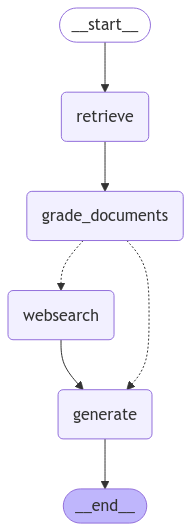
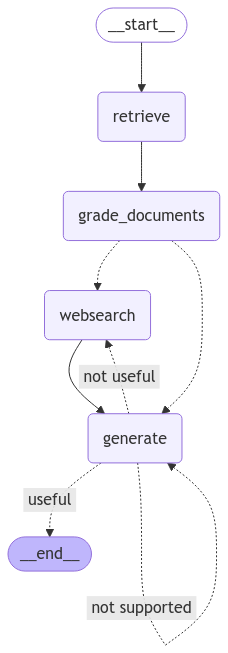
Added checks for hallucination and relevance

diff --git a/rag/graph/chains/tests/test_chains.py b/rag/graph/chains/tests/test_chains.py
@@ -2,7 +2,9 @@ from pprint import pprint
 
 from dotenv import load_dotenv
 
+from graph.chains.answer_grader import GradeAnswer, answer_grader
 from graph.chains.generation import generation_chain
+from graph.chains.hallucination_grader import GradeHallucination, hallucination_grader
 from graph.chains.retrieval_grader import GradeDocument, retrieval_grader
 from ingestion import retriever
 
@@ -34,3 +36,50 @@ def test_generation_chain() -> None:
     docs = retriever.invoke(question)
     generation = generation_chain.invoke({"question": question, "context": docs})
     pprint(generation)
+
+
+def test_hallucination_grader_yes() -> None:
+    question = "agent memory"
+    docs = retriever.invoke(question)
+    generation = generation_chain.invoke({"question": question, "context": docs})
+    res: GradeHallucination = hallucination_grader.invoke(
+        {"documents": docs, "generation": generation}
+    )
+    assert res.binary_score is True
+
+
+def test_hallucination_grader_no() -> None:
+    question = "agent memory"
+    docs = retriever.invoke(question)
+    res: GradeHallucination = hallucination_grader.invoke(
+        {
+            "documents": docs,
+            "generation": "In order to make pizza we need to first start with the dough.",
+        }
+    )
+    assert res.binary_score is False
+
+
+def test_answer_grader_yes() -> None:
+    question = "agent memory"
+    res: GradeAnswer = answer_grader.invoke(
+        {
+            "question": question,
+            "generation": "Agent memory is a system that enables AI agents to store,"
+            " retrieve, and utilize information from previous interactions, including"
+            " facts (semantic memory), experiences (episodic memory), and operational"
+            " rules (procedural memory)",
+        }
+    )
+    assert res.binary_score is True
+
+
+def test_answer_grader_no() -> None:
+    question = "agent memory"
+    res: GradeAnswer = answer_grader.invoke(
+        {
+            "question": question,
+            "generation": "In order to make pizza we need to first start with the dough.",
+        }
+    )
+    assert res.binary_score is False

diff --git a/rag/graph/graph_core.py b/rag/graph/graph_core.py
@@ -1,6 +1,8 @@
 from dotenv import load_dotenv
 from langgraph.graph import END, StateGraph
 
+from graph.chains.answer_grader import answer_grader
+from graph.chains.hallucination_grader import hallucination_grader
 from graph.consts import GENERATE, GRADE_DOCUMENTS, RETRIEVE, WEBSEARCH
 from graph.nodes import generate, grade_documents, retrieve, web_search
 from graph.state import GraphState
@@ -20,6 +22,32 @@ def decide_to_generate(state: GraphState) -> str:
         return GENERATE
 
 
+def grade_generation_grounded_in_documents_and_question(state: GraphState) -> str:
+    print("---CHECK HALLUCINATIONS---")
+    question = state["question"]
+    docs = state["documents"]
+    generation = state["generation"]
+    # Check if the generation is a hallucination
+    is_fact_based = hallucination_grader.invoke(
+        {"documents": docs, "generation": generation}
+    ).binary_score
+    if is_fact_based:
+        print("---DECISION: ANSWER GROUNDED IN DOCUMENTS---")
+        # Check if the generation is useful
+        is_useful = answer_grader.invoke(
+            {"question": question, "generation": generation}
+        ).binary_score
+        if is_useful:
+            print("---DECISION: ANSWER ADDRESSES THE QUESTION---")
+            return "useful"
+        else:
+            print("---DECISION: ANSWER DOES NOT ADDRESS THE QUESTION---")
+            return "not useful"
+    else:
+        print("---DECISION: ANSWER IS NOT GROUNDED IN DOCUMENTS---")
+        return "not supported"
+
+
 def graph() -> StateGraph:
     g = StateGraph(GraphState)
 
@@ -35,7 +63,11 @@ def graph() -> StateGraph:
         {WEBSEARCH: WEBSEARCH, GENERATE: GENERATE},
     )
     g.add_edge(WEBSEARCH, GENERATE)
-    g.add_edge(GENERATE, END)
+    g.add_conditional_edges(
+        GENERATE,
+        grade_generation_grounded_in_documents_and_question,
+        {"not supported": GENERATE, "not useful": WEBSEARCH, "useful": END},
+    )
 
     g.set_entry_point(RETRIEVE)
 

diff --git a/rag/graph/chains/hallucination_grader.py b/rag/graph/chains/hallucination_grader.py
@@ -1,0 +1,35 @@
+from langchain_core.prompts import ChatPromptTemplate
+from langchain_core.runnables import RunnableSequence
+from pydantic import BaseModel, Field
+
+from graph.chains.llm import llm
+
+
+class GradeHallucination(BaseModel):
+    """Binare score for hallucination present in generation answer."""
+
+    binary_score: bool = Field(
+        description="Binary score classifying the generation answer is grounded in the retrieved documents or not,"
+        "allowed values are 'yes' and 'no'"
+    )
+
+
+structured_llm_grader = llm.with_structured_output(GradeHallucination)
+
+system_message = """
+You are a grader assessing the relevance of a generation answer to the retrieved documents.
+If the generation answer is grounded in the retrieved documents, grade it as 'yes'.
+Otherwise, grade it as 'no'.
+"""
+
+hallucination_prompt = ChatPromptTemplate.from_messages(
+    [
+        ("system", system_message),
+        (
+            "human",
+            "Set of documents: \n\n{documents} \n\n LLM generation: {generation}",
+        ),
+    ]
+)
+
+hallucination_grader: RunnableSequence = hallucination_prompt | structured_llm_grader

diff --git a/rag/graph/chains/answer_grader.py b/rag/graph/chains/answer_grader.py
@@ -1,0 +1,32 @@
+from langchain_core.prompts import ChatPromptTemplate
+from langchain_core.runnables import RunnableSequence
+from pydantic import BaseModel, Field
+
+from graph.chains.llm import llm
+
+
+class GradeAnswer(BaseModel):
+    """Binare score if the answer addresses the question    ."""
+
+    binary_score: bool = Field(
+        description="Binary score classifying if the answer addresses the question or not,"
+        "allowed values are 'yes' and 'no'"
+    )
+
+
+structured_llm_grader = llm.with_structured_output(GradeAnswer)
+
+system_message = """
+You are a grader assessing the relevance of an answer to a question.
+If the answer addresses the question, grade it as 'yes'.
+Otherwise, grade it as 'no'.
+"""
+
+answer_prompt = ChatPromptTemplate.from_messages(
+    [
+        ("system", system_message),
+        ("human", "User question: {question} \n\n LLM generation: {generation}"),
+    ]
+)
+
+answer_grader: RunnableSequence = answer_prompt | structured_llm_grader

diff --git a/rag/graph/chains/retrieval_grader.py b/rag/graph/chains/retrieval_grader.py
@@ -1,22 +1,10 @@
-import os
-
 from dotenv import load_dotenv
-from langchain_anthropic import ChatAnthropic
 from langchain_core.prompts import ChatPromptTemplate
-from langchain_openai import ChatOpenAI
 from pydantic import BaseModel, Field
 
-load_dotenv()
+from graph.chains.llm import llm
 
-# Get the LLM, either Anthropic Sonnet 3.5 or OpenAI gpt4-o-mini
-USE_ANTHROPIC = os.getenv("USE_ANTHROPIC", "true").lower() == "true"
-if USE_ANTHROPIC:
-    llm = ChatAnthropic(
-        model="claude-3-5-sonnet-latest",
-        temperature=0,
-    )
-else:
-    llm = ChatOpenAI(model="gpt-4o", temperature=0)
+load_dotenv()
 
 
 class GradeDocument(BaseModel):

diff --git a/rag/graph/chains/generation.py b/rag/graph/chains/generation.py
@@ -1,20 +1,7 @@
-import os
-
 from langchain import hub
-from langchain_anthropic import ChatAnthropic
 from langchain_core.output_parsers import StrOutputParser
-from langchain_openai import ChatOpenAI
 
-# Get the LLM, either Anthropic Sonnet 3.5 or OpenAI gpt4-o-mini
-USE_ANTHROPIC = os.getenv("USE_ANTHROPIC", "true").lower() == "true"
-if USE_ANTHROPIC:
-    llm = ChatAnthropic(
-        model="claude-3-5-sonnet-latest",
-        temperature=0,
-    )
-else:
-    llm = ChatOpenAI(model="gpt-4o", temperature=0)
-
+from graph.chains.llm import llm
 
 prompt = hub.pull("rlm/rag-prompt")
 

diff --git a/rag/graph/chains/llm.py b/rag/graph/chains/llm.py
@@ -1,0 +1,14 @@
+import os
+
+from langchain_anthropic import ChatAnthropic
+from langchain_openai import ChatOpenAI
+
+# Get the LLM, either Anthropic Sonnet 3.5 or OpenAI gpt4-o-mini
+USE_ANTHROPIC = os.getenv("USE_ANTHROPIC", "true").lower() == "true"
+if USE_ANTHROPIC:
+    llm = ChatAnthropic(
+        model="claude-3-5-sonnet-latest",
+        temperature=0,
+    )
+else:
+    llm = ChatOpenAI(model="gpt-4o", temperature=0)

diff --git a/rag/main.py b/rag/main.py
@@ -8,5 +8,6 @@ if __name__ == "__main__":
     print("Running RAG...")
     # question = "How to make a pizza?"
     question = "What is agent memory?"
+    # question = "What are technologies for spatial transcriptomics?"
     result = app.invoke(input={"question": question})
     print(result["generation"])
